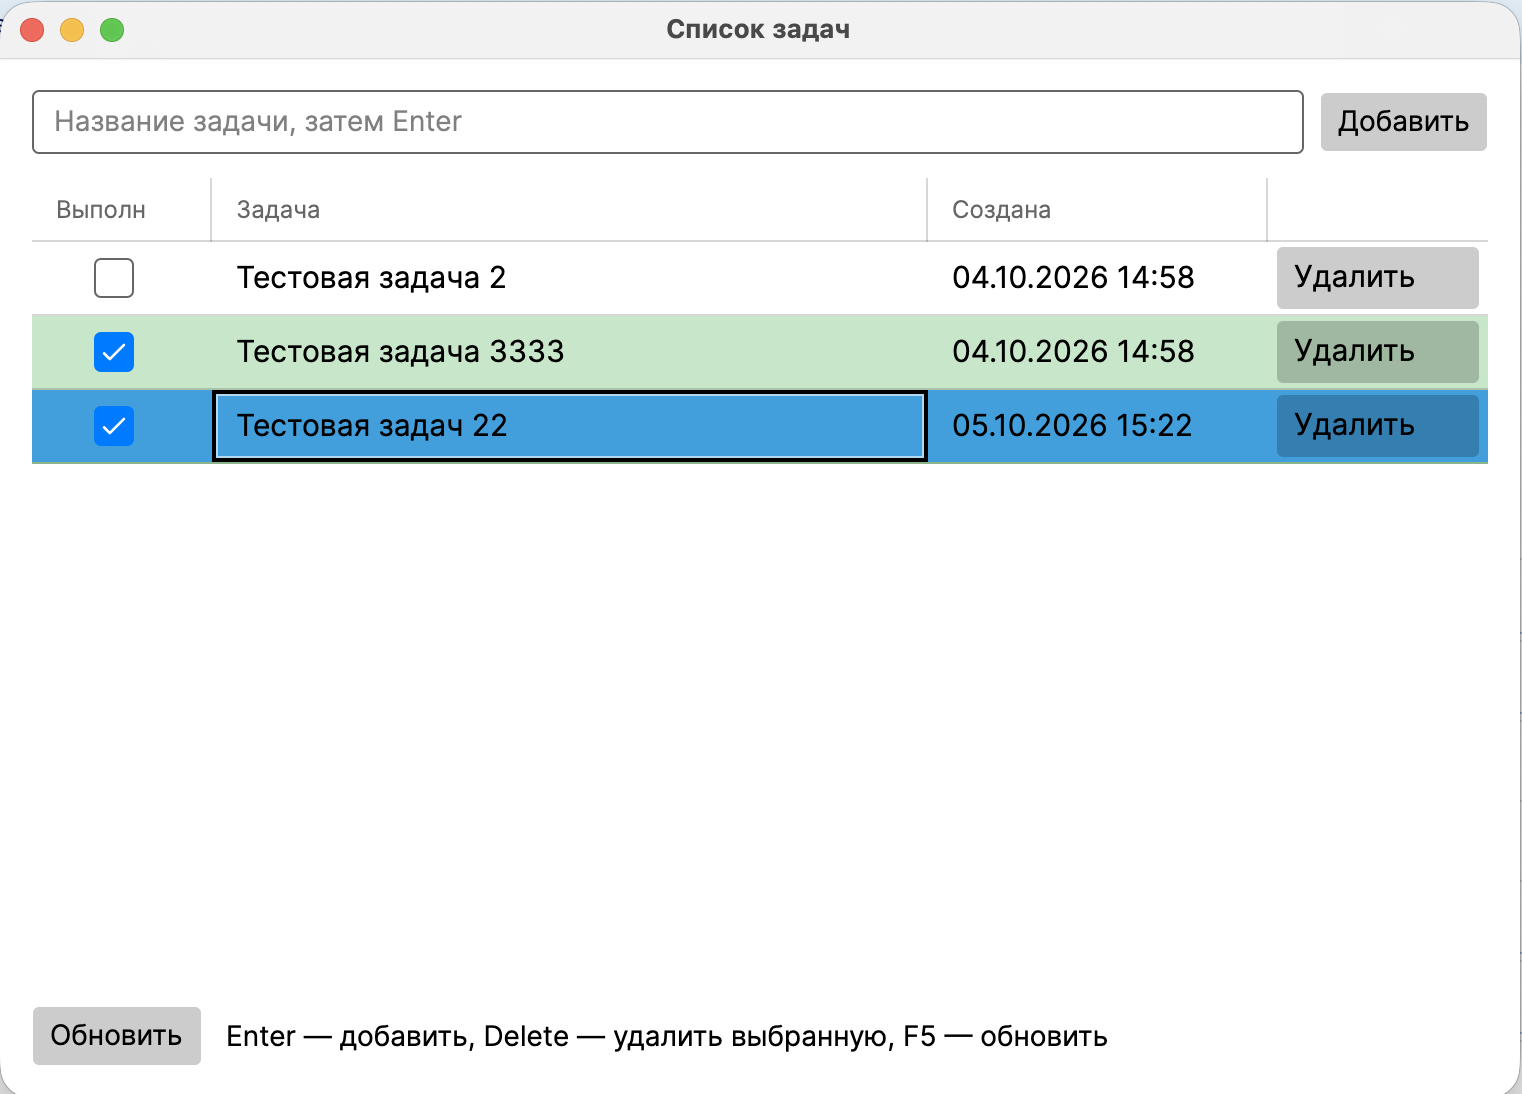
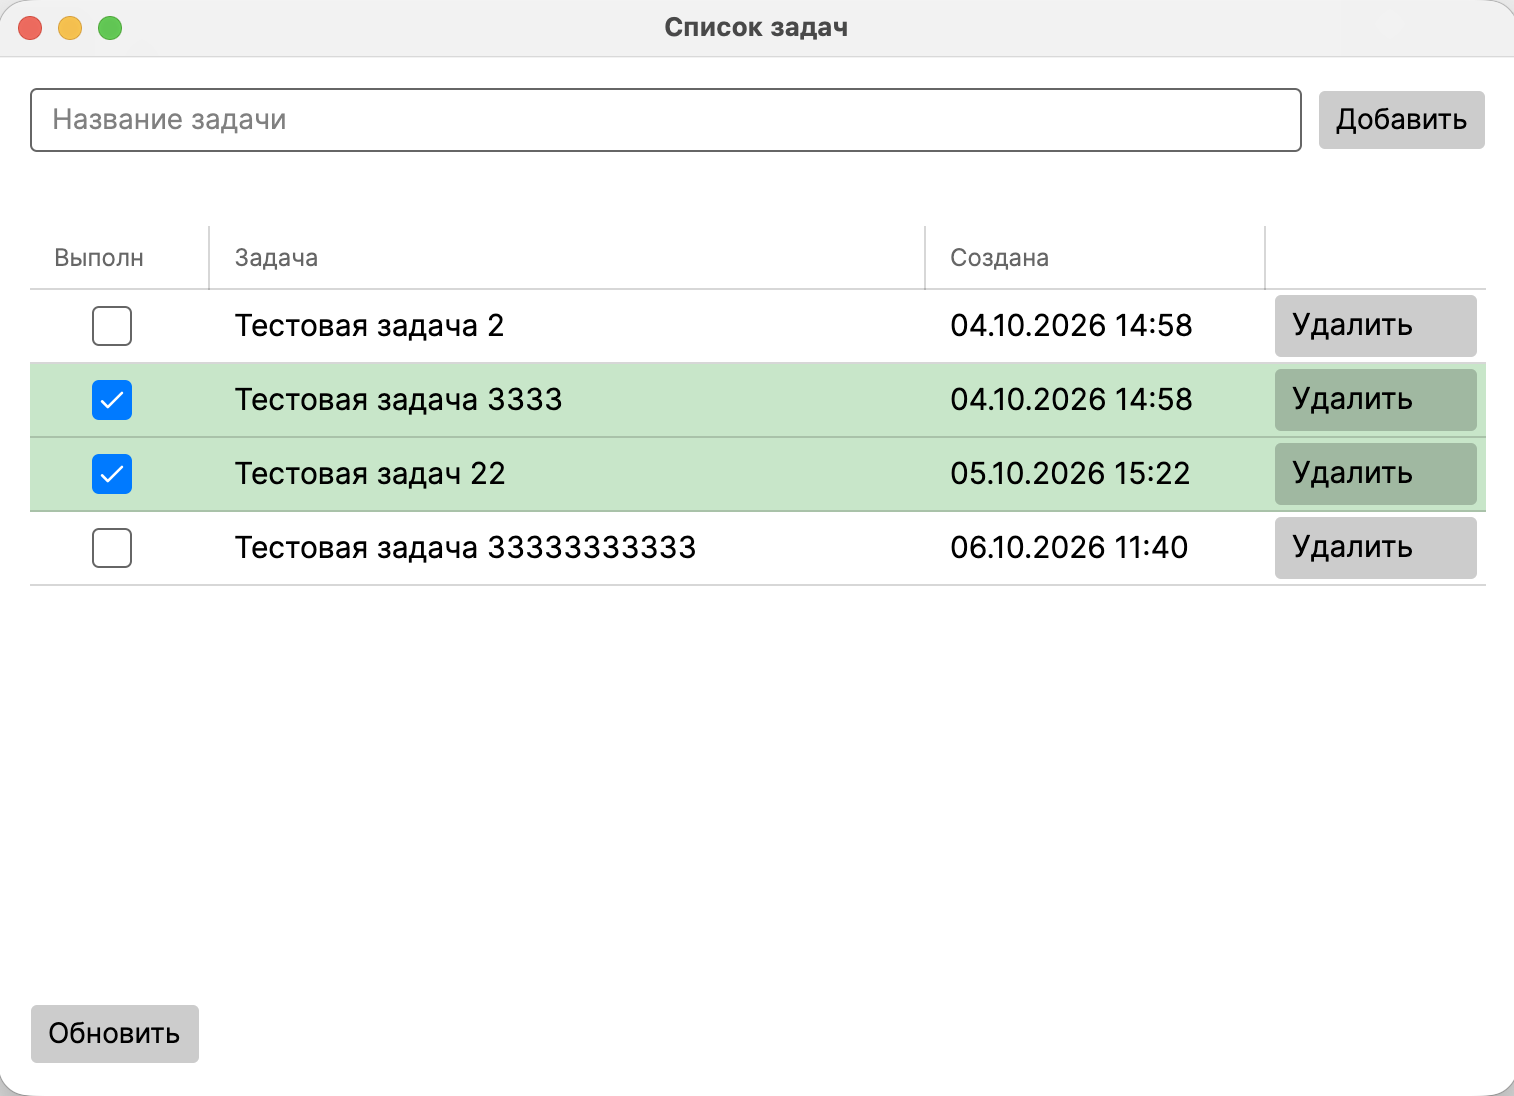
ui fixed

diff --git a/TaskManager.Desktop/ViewModels/MainViewModel.cs b/TaskManager.Desktop/ViewModels/MainViewModel.cs
@@ -24,8 +24,6 @@ public sealed partial class MainViewModel : ObservableObject, IDisposable
 
     [ObservableProperty] private bool _isBusy;
 
-    [ObservableProperty] private TaskRowViewModel? _selectedTask;
-
     [ObservableProperty] private ObservableCollection<TaskRowViewModel> _tasks = [];
 
     public MainViewModel(IServiceScopeFactory scopeFactory, IExceptionHandlingMiddleware middleware)
@@ -63,17 +61,6 @@ public sealed partial class MainViewModel : ObservableObject, IDisposable
             Tasks.Add(CreateRow(created));
             NewTaskTitle = string.Empty;
         }, cancellationToken);
-    }
-
-    [RelayCommand]
-    private Task DeleteSelectedAsync(CancellationToken cancellationToken)
-    {
-        if (SelectedTask is null)
-        {
-            return Task.CompletedTask;
-        }
-
-        return DeleteRowAsync(SelectedTask, cancellationToken);
     }
 
     private TaskRowViewModel CreateRow(TaskModel task)

diff --git a/README.md b/README.md
@@ -15,8 +15,6 @@ dotnet run --project TaskManager.Desktop
 
 Postgres: порт **5433**, база `tasks`, пользователь и пароль `taskmanager`. Миграция `InitialCreate` применяется при старте (`Database.Migrate()`). Если база недоступна, окно всё равно открывается.
 
-Enter — добавить, Delete — удалить выбранную, F5 — обновить.
-
 ## Архитектура
 
 MVVM внутри одного десктопного проекта.
